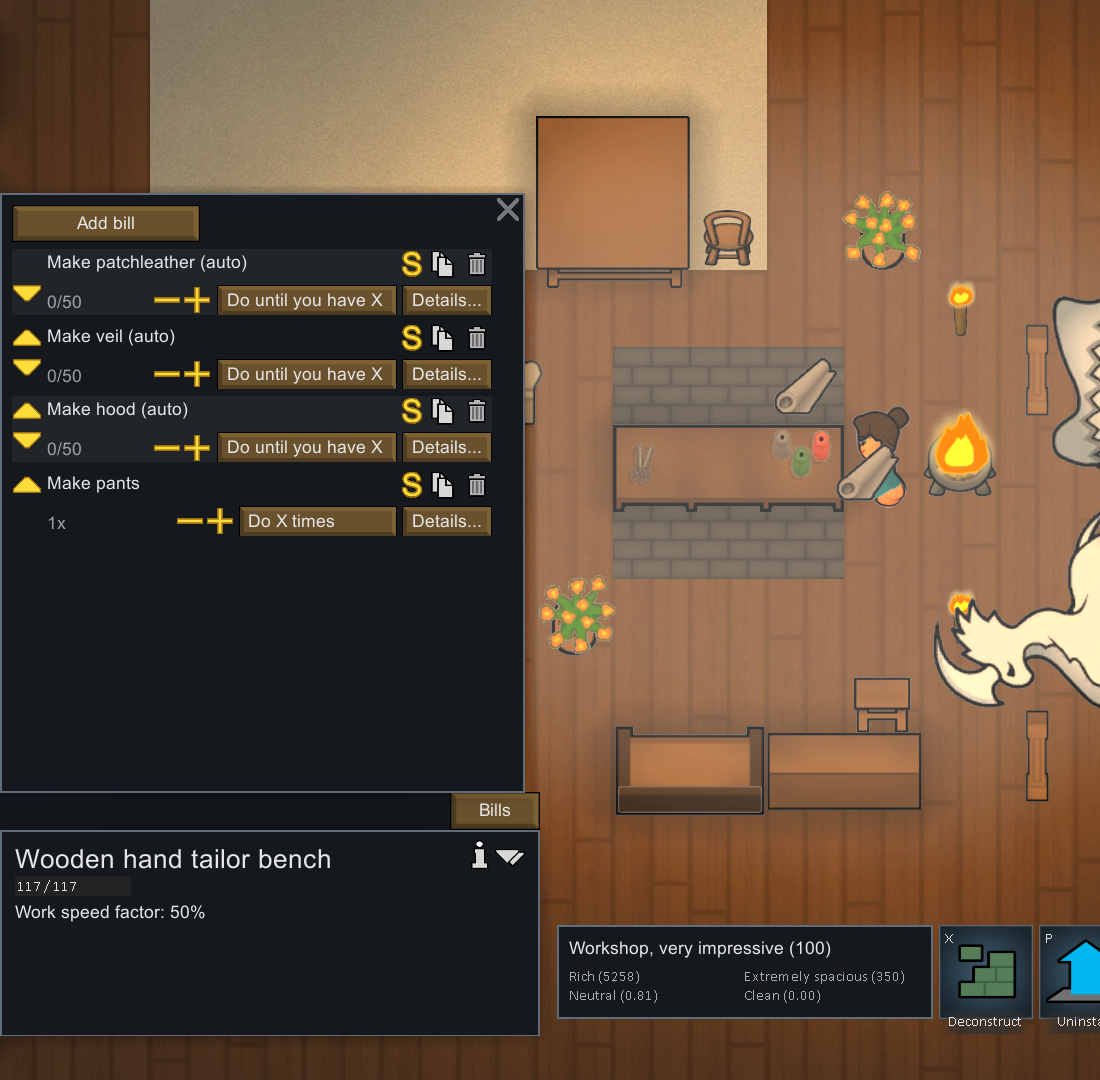
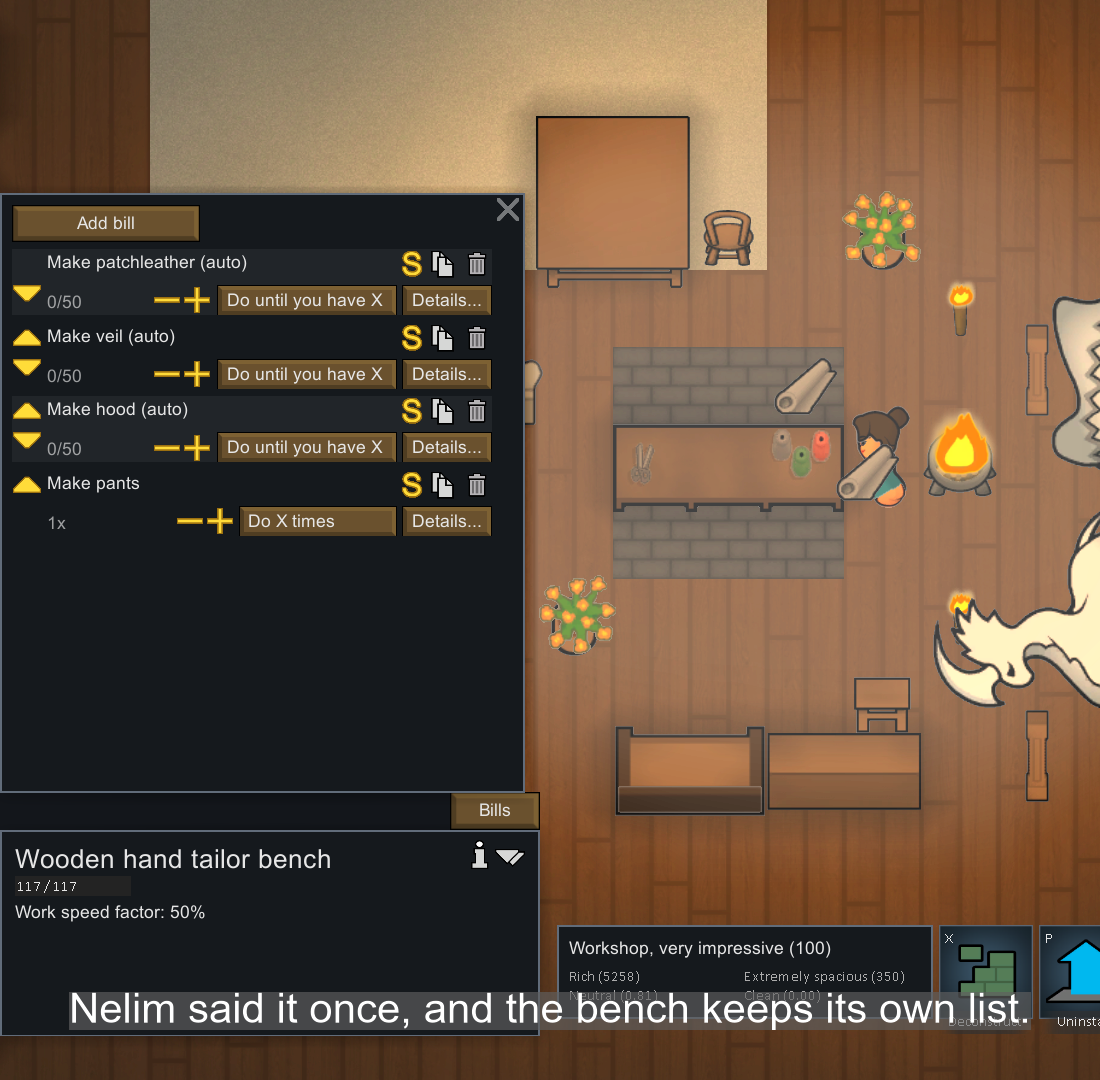
gallery: subtitles burned on images 1, 4, 6, clean originals kept

Changed region(s): [[0.0618, 0.9167, 0.9582, 0.9778]]

diff --git a/STATUS.md b/STATUS.md
@@ -23,7 +23,7 @@ workshop:      3806709456
 publication_changelog_review_sha: 66acf05179c23fa2e50ec48d22c044da6729dcb5
 code_review_sha: e70a6e39dea9cfba5019870b3a02288c55dca18b
 remaining:
-  - open 2026-11-19, gallery six images kept (1 from ticket `daab` green, 4 and 6 from `ffb0`, 2, 3, 5 windows), all cropped in `Art/Gallery/`; PUBLICATION.md gallery table updated; next: replay-audit decides the stage. Subtitles for 1, 4, 6 (PUBLICATION.md) fixed at publish; clean originals in `Art/Gallery-clean/` not made yet
+  - open 2026-11-19, gallery done: six images kept, subtitles burned on 1, 4, 6, PUBLICATION.md tables updated; next: mountPreview (echo from gallery, preview_source_decision, Preview redo)
   - open 2026-11-19, Audit rules read at resume: session accepts or refuses each image alone (no Parked for gallery takes, a REDO take is deleted with its run folder); STATUS.md migration done (Docs/PROTOCOLS-READ.md and Docs/runs/status-history.md deleted, pickle-runs.md renamed pickle.md, old dated sections dropped). Check-Status WARN npt-sync: NPT changed 2026-11-19 after Steps read 2026-11-18, run sync-nsb-npt before the next scenario edit
 session:      local_3a8a05c7-7219-41d0-8306-35bbfe80986d
 updated:      2026-11-19, resume 6, ticket daab green, image 1 kept, six images done
@@ -86,7 +86,7 @@ Evidence is kept on disk only (`Tests/Pickle/Inbox/` arrivals, `Evidence/` proof
 
 ## Gallery
 
-Six images kept (2026-11-19), shot in the hearth hall of the Sanctuary of Nelim (fixture `Nelims-tribe`, scenario `23-gallery-vanilla.feature`, window 5 from feature 24; plan in the header of feature 23, shotlist v4). `Art/Gallery/` holds `0-preview.png` (byte copy of `Mod/About/Preview.png`) and the cropped captures below; none accepted by the owner yet (`showcase: partial`); no subtitle posed, `Art/Gallery-clean/` not created (9.e bis, `rate-gallery` to run).
+Six images kept (2026-11-19), shot in the hearth hall of the Sanctuary of Nelim (fixture `Nelims-tribe`, scenario `23-gallery-vanilla.feature`, window 5 from feature 24; plan in the header of feature 23, shotlist v4). `Art/Gallery/` holds `0-preview.png` (byte copy of `Mod/About/Preview.png`) and the cropped captures below; subtitles of 1, 4, 6 burned 2026-11-19 (clean originals in `Art/Gallery-clean/`, copies in `Art/Gallery/`), score-gallery verdict candidate on all three (image, adequacy, understanding, decoration 4 or more; j ok on shapes at 268 px); the owner validates only "ready to publish" (`showcase: partial`).
 
 | Index | File | Source run | Crop |
 | --- | --- | --- | --- |

diff --git a/PUBLICATION.md b/PUBLICATION.md
@@ -59,14 +59,14 @@ trip happened, not that the picture shows anything.
 
 One line of English written at the bottom of each scene image, like a film subtitle (`GALLERY.md`, "Sous-titres").
 Scenes without an interface window only: images 1, 4 and 6. The windows (2, 3, 5) and `0-preview.png` carry none.
-The unsubtitled originals live in `Art/Gallery-clean/`; the file names below are the planned ones and are fixed when
-the owner accepts the captures and the gallery is reindexed.
+The unsubtitled originals live in `Art/Gallery-clean/` (images 1, 4, 6, posed 2026-11-19, names final);
+the subtitled copies are in `Art/Gallery/`.
 
 | index | file | line |
 | --- | --- | --- |
-| 1 | `1-hall.png` | Nelim said it once, and the bench keeps its own list. |
-| 4 | `4-stove.png` | A new recipe waits, suspended, until she says yes. |
-| 6 | `6-answered.png` | She said yes, and the stove took it up. |
+| 1 | `1-tailor-1-hall.png` | Nelim said it once, and the bench keeps its own list. |
+| 4 | `4-tailor-4-stove.png` | A new recipe waits, suspended, until she says yes. |
+| 6 | `6-tailor-6-answered.png` | She said yes, and the stove took it up. |
 
 ## Dependencies and DLC to declare
 
